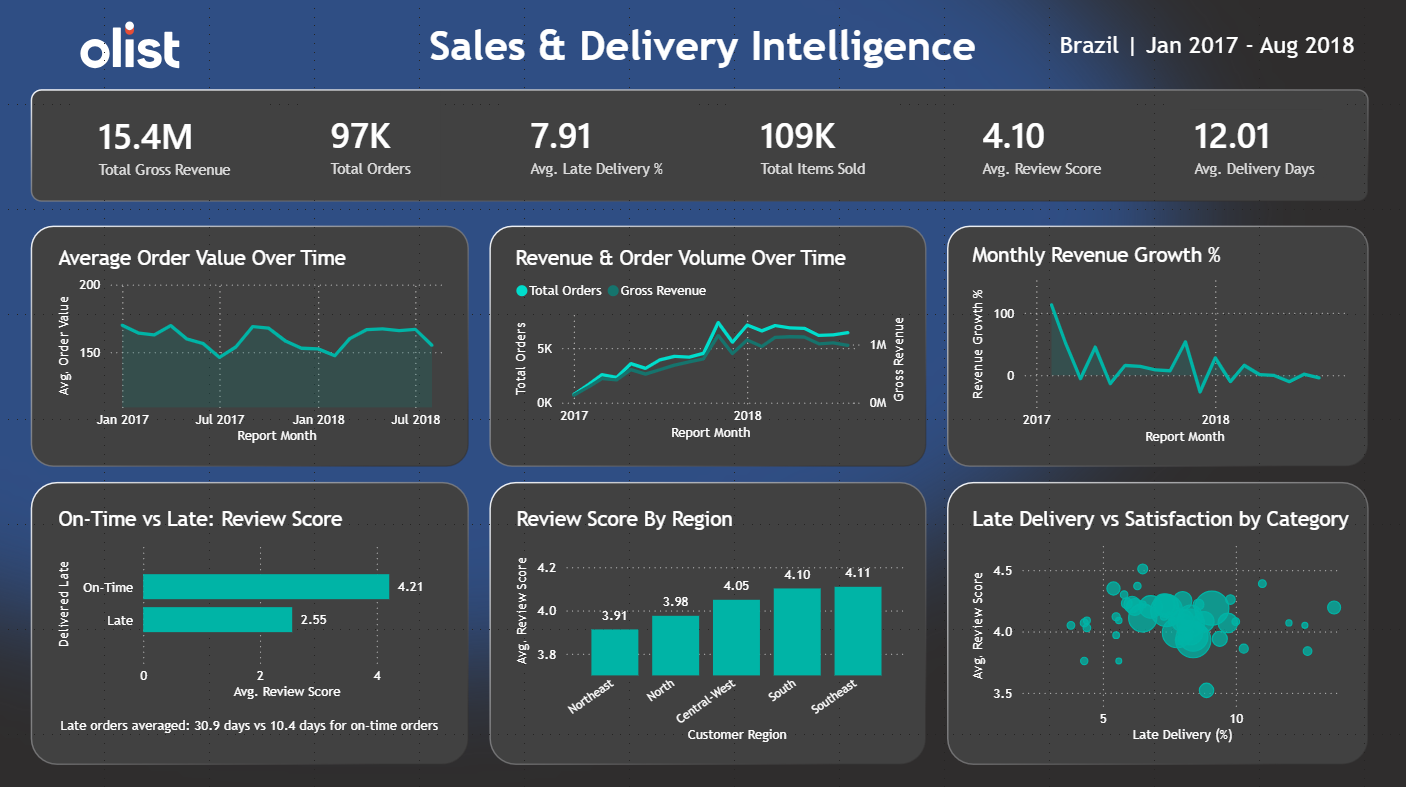
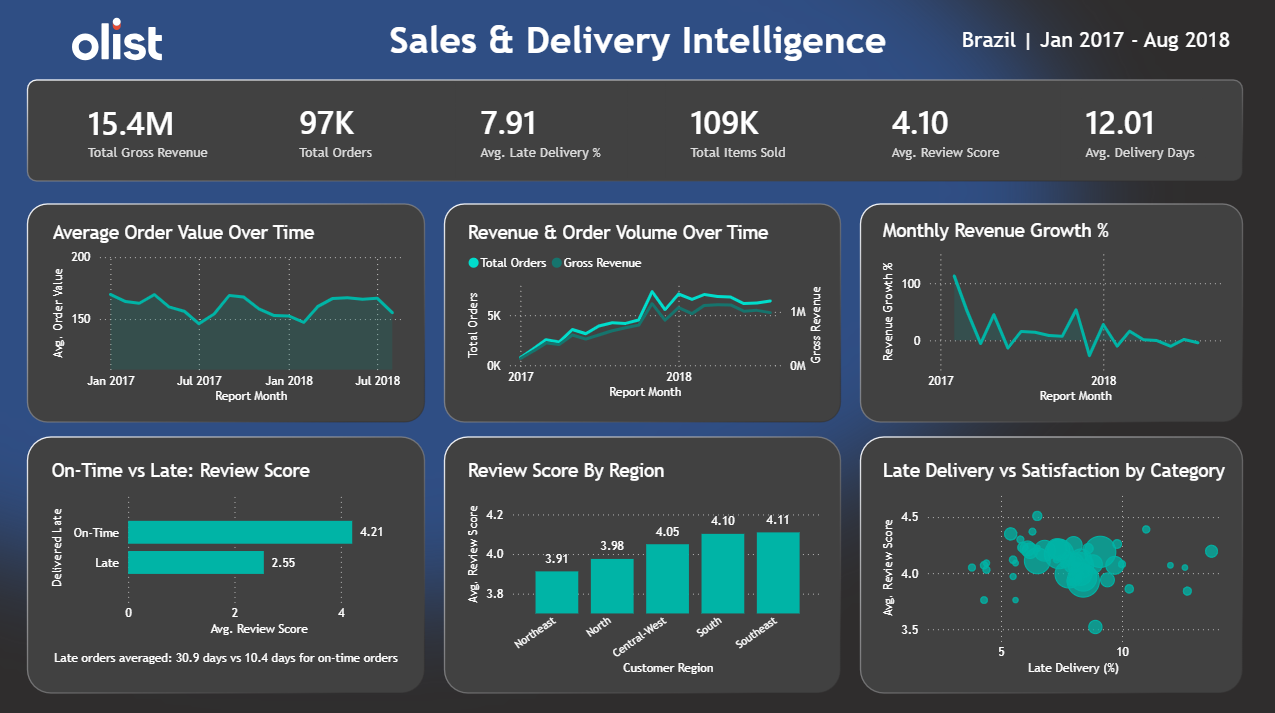
update pbix and screenshot

diff --git a/README.md b/README.md
@@ -23,6 +23,12 @@ My goal was to design and build an end-to-end analytics pipeline that transforme
 
 ---
 
+## 📸 Dashboard
+
+![Sales & Delivery Intelligence Dashboard](assets/dashboard-screenshot.png)
+
+---
+
 ## 📊 Dataset
 
 This project uses the [Brazilian E-Commerce Public Dataset by Olist](https://www.kaggle.com/datasets/olistbr/brazilian-ecommerce), sourced from Kaggle.
@@ -223,19 +229,43 @@ To sustain growth, Olist should prioritise delivery reliability in the Northeast
 
 ---
 
-## ⚙️ Current Project Progress
+## 📊 Data Visualisation
 
-### ✅ Completed
+I created a single page dashboard, split into two rows of charts, in Power BI to present my findings.
 
-- Data profiling and quality assessment
-- Raw-to-staging cleaning pipeline
-- Data standardisation and transformation
-- Gold-layer analytical view creation
-- Business findings and analysis
+Below is a walkthrough of each row:
 
-### 🚧 In Progress
+**Top row — KPI cards**
 
-- Power BI dashboard development
-- Executive summary and final presentation
+Six headline numbers across the top: total revenue, total orders, average order value, average review score and average delivery days. These give a quick snapshot of the business before looking at the detail below.
+
+**Middle row — Revenue and growth**
+
+- _Average Order Value Over Time_ — a flat line throughout the period, which confirms growth isn't coming from bigger baskets
+- _Revenue & Order Volume Over Time_ — revenue and order count plotted together, both climbing steadily from early 2017 to 2018, driven by volume
+- _Monthly Revenue Growth %_ — shows the month-on-month growth rate. Big swings early on when order numbers were still small
+
+**Bottom row — Delivery and satisfaction**
+
+- _On-Time vs Late: Review Score_ — the clearest chart on the page. Two bars: 4.21 for on-time deliveries, 2.55 for late deliveries. The gap makes the correlation between punctual deliveries and better review scores immediately obvious
+- _Review Score by Region_ — satisfaction broken down by Brazil's five regions, with the Northeast visibly below the rest
+- _Late Delivery vs Satisfaction by Category_ — a scatter plot where each dot is a product category, plotted by late delivery rate and average review score. Categories sitting bottom-right (high late rate, low score) are the ones that need attention most
 
 ---
+
+## 💡 Recommendations
+
+**1. Fix delivery reliability in the Northeast**
+
+The Northeast has a 14.2% late rate — nearly double the Southeast. Alagoas (AL), Maranhão (MA) and Ceará (CE) are the worst states. Improving logistics partnerships or setting more realistic delivery estimates for this region would have the biggest impact on customer satisfaction.
+
+**2. Review fulfilment for the Bed, Bath & Table category**
+
+920 late deliveries and a 3.93 score make this the highest-risk category by volume. It's worth looking at whether sellers in this category are consistently missing shipping windows and whether tighter SLAs would help.
+
+**3. Investigate packaging for Office Furniture**
+
+Office Furniture scores 3.52, the lowest of any major category, despite only an 8.9% late rate. The issue isn't delivery speed, it's likely damage in transit. Better packaging requirements for heavy and bulky items could improve scores here without changing logistics at all.
+
+**4. Look at ways to grow average order value**
+Revenue growth has been entirely volume-driven since 2016; average order value has stayed flat at ~R$130-160 throughout. Bundles, cross-sell recommendations or free shipping thresholds could help increase what customers spend per order.